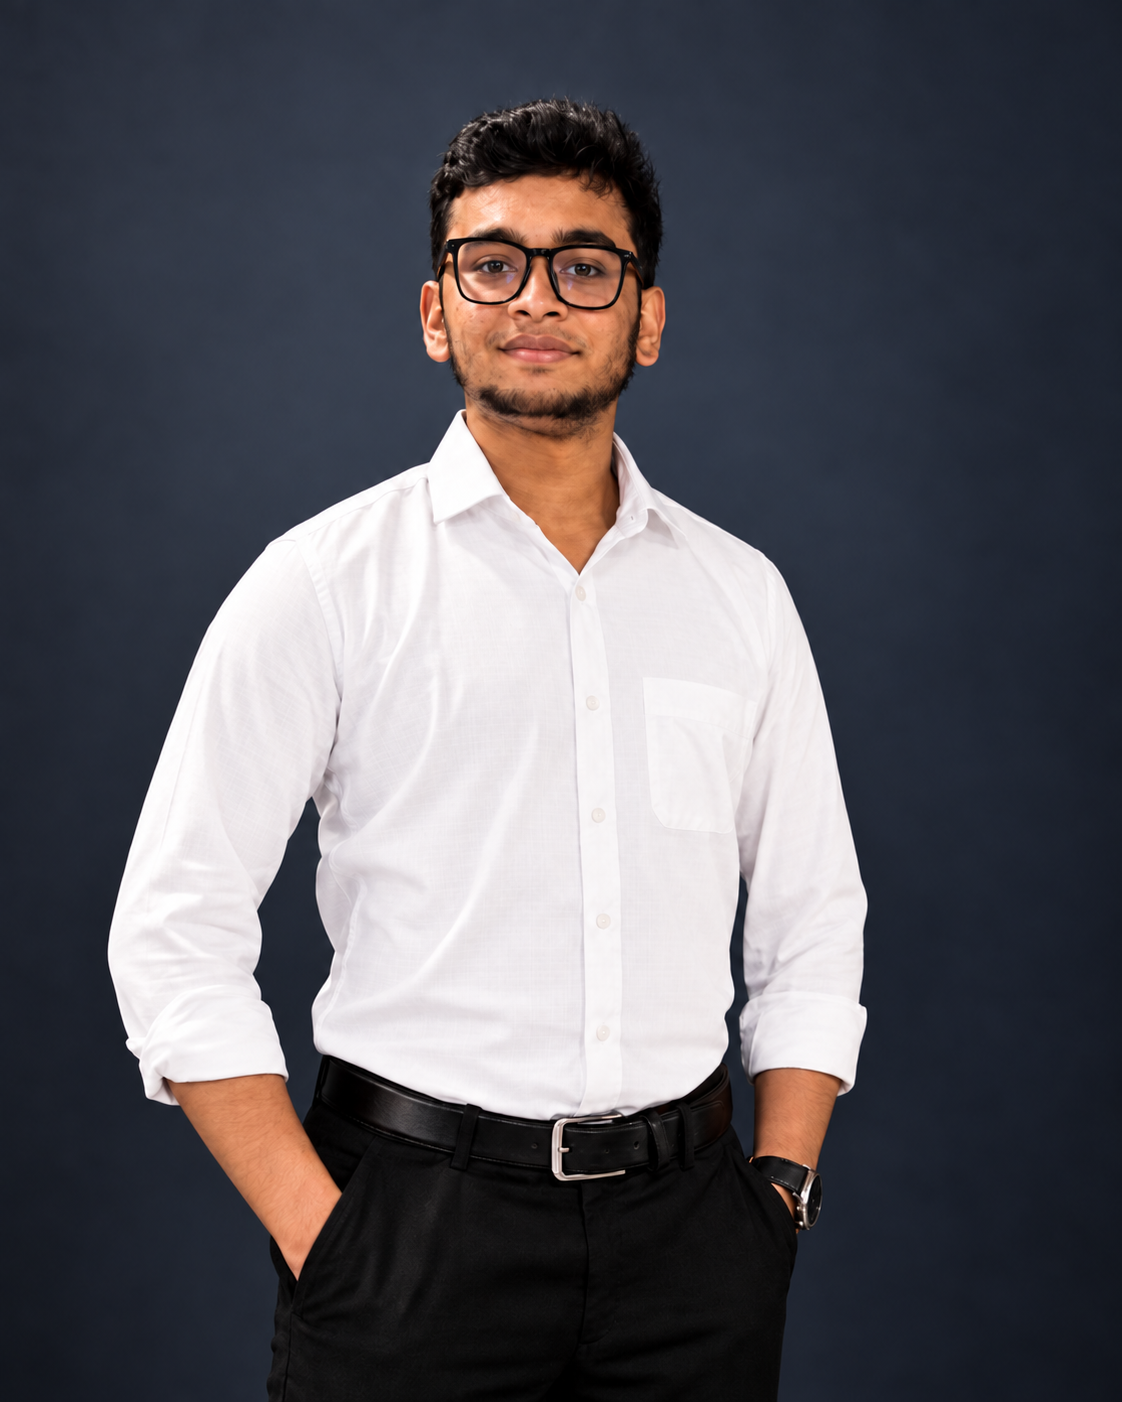
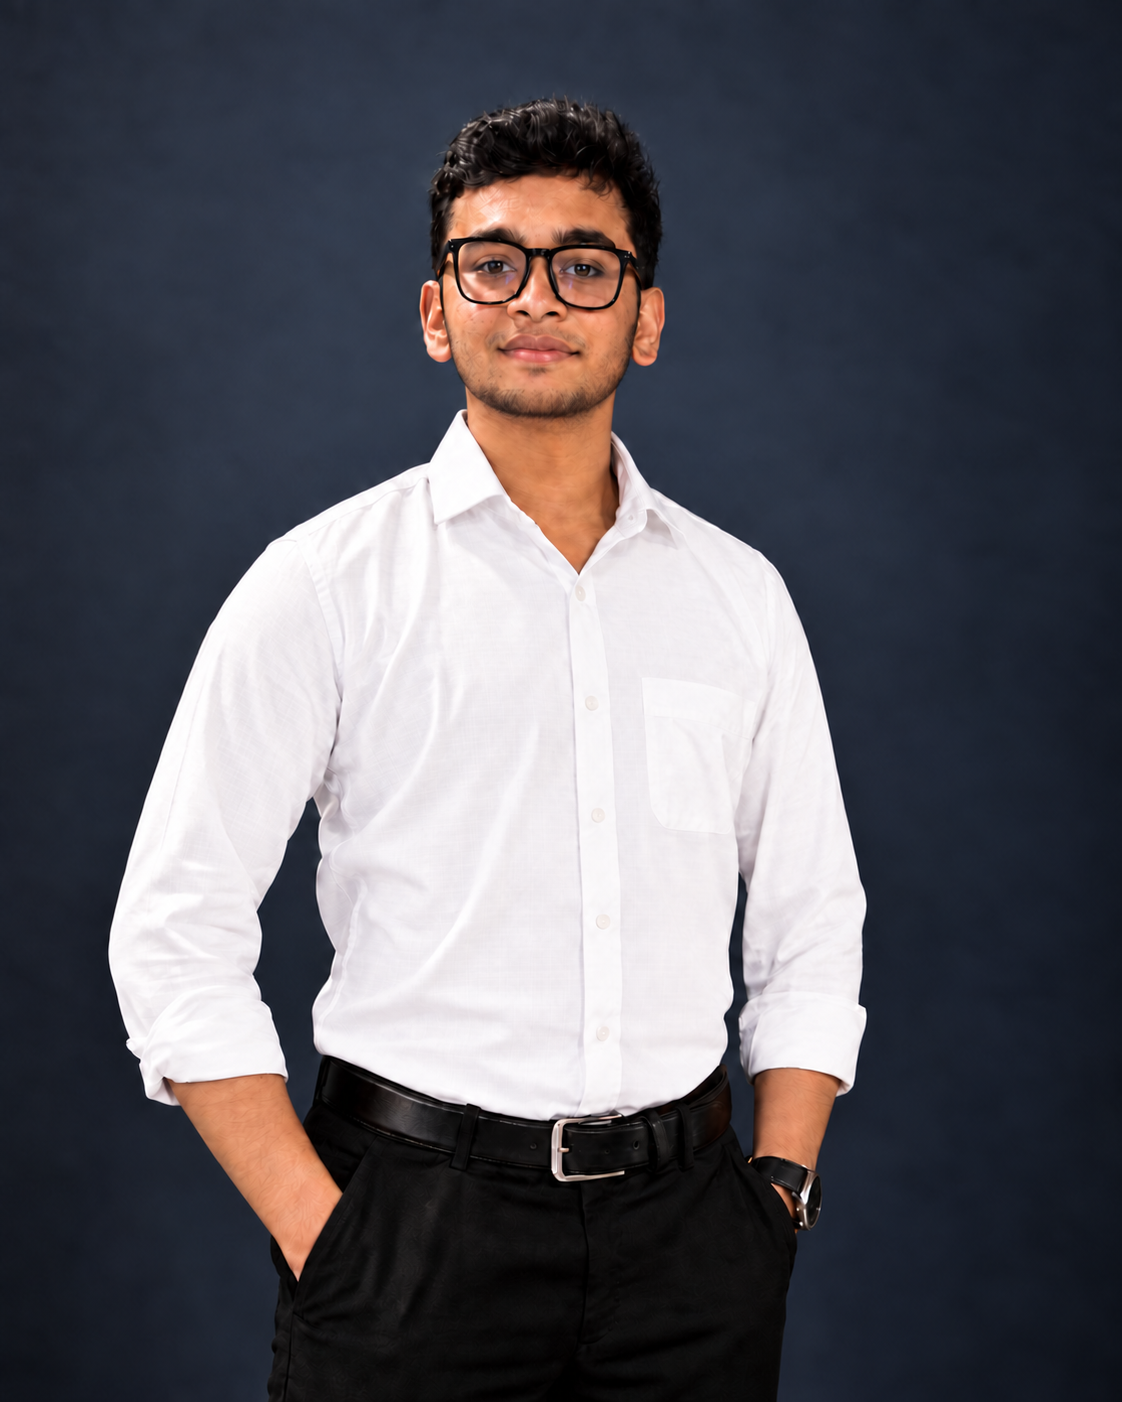
pic update

diff --git a/docs/index.html b/docs/index.html
@@ -101,7 +101,7 @@
         <div class="hero-details"><span>Hobart, Tasmania</span><span>Open to graduate roles & internships</span></div>
       </div>
       <figure class="portrait-card reveal">
-        <div class="portrait-frame"><img src="assets/billal-waist-up.png?v=ff656fac849e" width="1122" height="1402" alt="Waist-up portrait of Billal Hossain Shishir" fetchpriority="high" decoding="async" /></div>
+        <div class="portrait-frame"><img src="assets/billal-waist-up.png?v=d9e171d9cbc3" width="1122" height="1402" alt="Waist-up portrait of Billal Hossain Shishir" fetchpriority="high" decoding="async" /></div>
         <figcaption><span>Learning. Building. Delivering.</span><span>UTAS · Artificial Intelligence</span></figcaption>
       </figure>
     </section>
